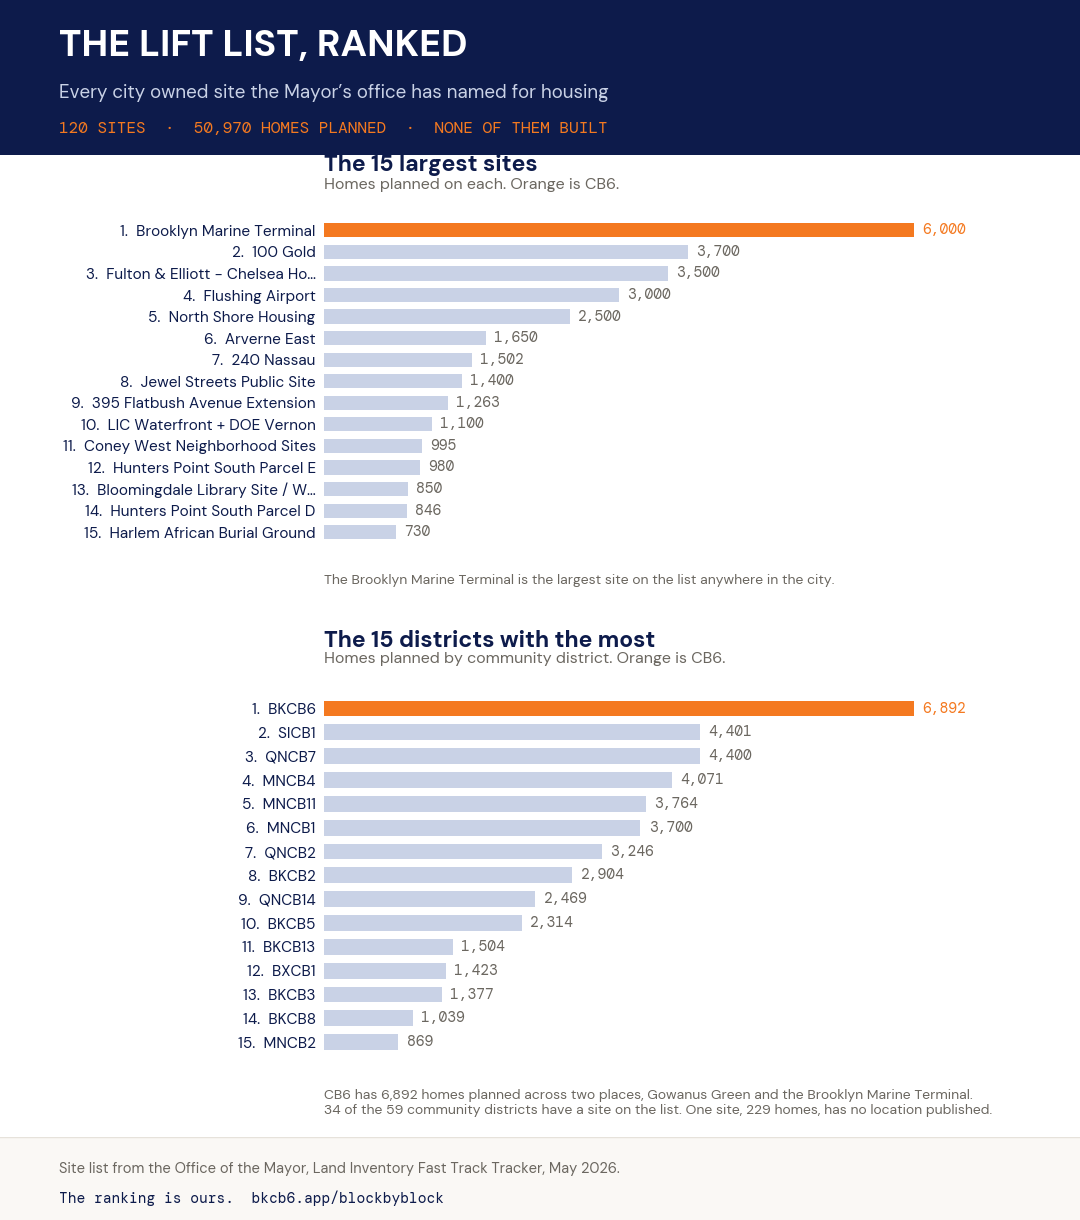
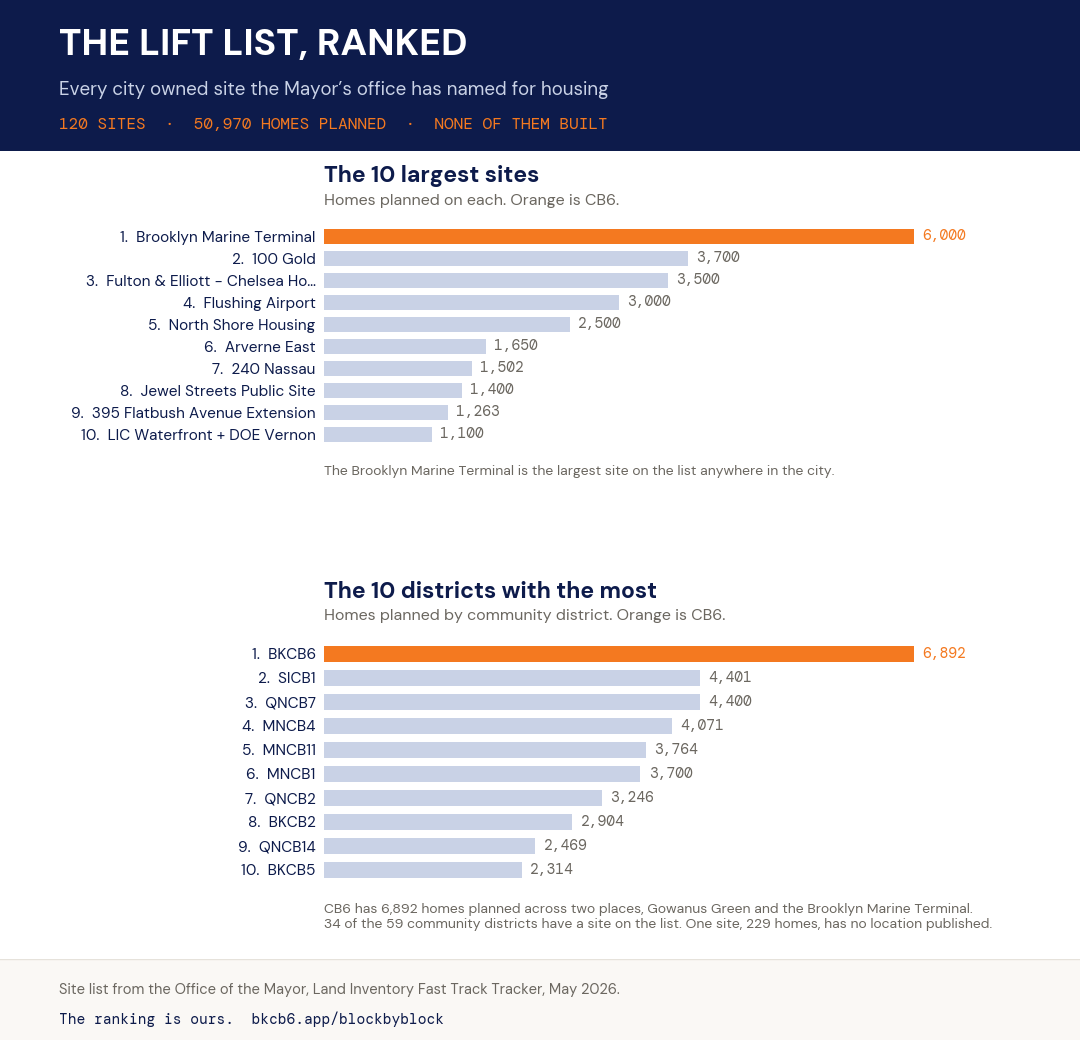
blockbyblock: interactive ranked chart with toggles for sites, boroughs, districts and agencies

Changed region(s): [[0.0, 0.0, 1.0, 0.9846], [0.7333, 0.4308, 0.7639, 0.4923]]

diff --git a/blockbyblock/index.html b/blockbyblock/index.html
@@ -45,8 +45,19 @@ h1 span{color:var(--orange)}
 .fold[open] summary::before{content:"\2212"}
 .fold .foldnote{padding:0 16px 12px;font-family:'DM Mono',monospace;font-size:.66rem;line-height:1.7;color:var(--muted)}
 .fold[open]{background:#fff}
-.chartfig{display:block;line-height:0;border-top:1px solid var(--border);border-bottom:1px solid var(--border)}
-.chartfig img{width:100%;height:auto;display:block}
+.bars{padding:2px 0 4px}
+.barrow{padding:9px 16px 11px;border-bottom:1px solid #f4f2ee}
+.barrow:last-child{border-bottom:none}
+.barrow.is-cb6{background:#fff8f2}
+.barhead{display:flex;align-items:baseline;gap:8px;margin-bottom:6px}
+.barrank{font-family:'DM Mono',monospace;font-size:.78rem;color:#9ca3af;min-width:20px}
+.barname{font-family:'DM Sans',sans-serif;font-size:.95rem;font-weight:800;color:var(--navy);flex:1;min-width:0;white-space:nowrap;overflow:hidden;text-overflow:ellipsis}
+.barval{font-family:'DM Mono',monospace;font-size:1rem;font-weight:800;color:var(--navy);white-space:nowrap}
+.barrow.is-cb6 .barname,.barrow.is-cb6 .barval{color:#b34700}
+.bartrack{height:20px;background:#eef0f4;border-radius:4px;overflow:hidden}
+.barfill{display:block;height:100%;background:var(--navy);border-radius:4px;transition:width .28s ease}
+.barrow.is-cb6 .barfill{background:var(--orange)}
+.barsub{margin-top:6px;font-family:'DM Mono',monospace;font-size:.63rem;line-height:1.5;color:var(--muted)}
 .chartget{padding:11px 16px 14px;font-family:'DM Mono',monospace;font-size:.66rem;text-transform:uppercase;letter-spacing:.08em;font-weight:700}
 .chartget a{color:var(--orange);text-decoration:none}
 .more{margin-top:2px}
@@ -366,12 +377,11 @@ table.dir td.nm{text-align:left;font-family:'DM Sans',sans-serif;font-weight:700
   <div id="rptSites"></div>
 
   <details class="fold" id="foldChart">
-    <summary>The ranking as one chart, to share</summary>
-    <div class="foldnote">The fifteen largest sites and the fifteen community districts with the most homes planned on them.</div>
-    <a class="chartfig" href="/lift-ranked.png" target="_blank" rel="noopener">
-      <img src="/lift-ranked.png" width="1080" height="1220" alt="The LIFT list, ranked. 120 sites, 50,970 homes planned, none of them built. The fifteen largest sites, led by the Brooklyn Marine Terminal in CB6 with 6,000 homes. The fifteen community districts with the most homes planned, led by BKCB6 with 6,892.">
-    </a>
-    <div class="chartget"><a href="/lift-ranked.png" download>Download the chart &rarr;</a></div>
+    <summary>The ranking as a chart</summary>
+    <div class="foldnote">Homes planned, none of them built. Switch between the biggest sites and the boroughs, districts and agencies they sit in.</div>
+    <div class="mapctl" id="chartCtl"></div>
+    <div id="chartBars"></div>
+    <div class="chartget"><a href="/lift-ranked.png" download>Download this as an image to share &rarr;</a></div>
   </details>
 
   <div class="sec">
@@ -871,6 +881,55 @@ table.dir td.nm{text-align:left;font-family:'DM Sans',sans-serif;font-weight:700
       drawTbl();
     });
     $('liftQ').addEventListener('input',drawTbl);
+
+    /* ---- the chart ---- */
+    var CHARTS=[['site','Top ten sites'],['boro','Boroughs'],['cd','Community districts'],
+      ['cc','Council districts'],['ag','Agencies']];
+    var chartView='site';
+    function chartRows(){
+      if(chartView==='site'){
+        return SITES.slice().sort(function(a,b){return (b.u||0)-(a.u||0);}).slice(0,10)
+          .map(function(s){
+            return {name:s.n, v:s.u||0, me:(s.cd==='BKCB6'),
+              sub:[s.nb, s.cd, s.ag].filter(Boolean).join(' \u00b7 ')};
+          });
+      }
+      var m={}, out=[];
+      SITES.forEach(function(s){
+        var k=s[chartView]; if(!k) return;
+        if(!m[k]){ m[k]={name:(chartView==='cc'?('Council '+k.replace('District ','')):k),v:0,sites:0,key:k}; out.push(m[k]); }
+        m[k].v+=(s.u||0); m[k].sites++;
+      });
+      out.sort(function(a,b){return b.v-a.v;});
+      if(chartView==='cd'||chartView==='cc') out=out.slice(0,10);
+      return out.map(function(r){
+        return {name:r.name, v:r.v, me:(r.key==='BKCB6'),
+          sub:n(r.sites)+(r.sites===1?' site':' sites')+' \u00b7 '+
+            (r.v/D.total_units*100).toFixed(1)+' percent of the list'};
+      });
+    }
+    function drawChart(){
+      var rows=chartRows(), max=rows.length?rows[0].v:0;
+      $('chartBars').innerHTML='<div class="bars">'+rows.map(function(r,i){
+        var w=Math.max(4,Math.round(r.v/max*100));
+        return '<div class="barrow'+(r.me?' is-cb6':'')+'">'+
+          '<div class="barhead"><span class="barrank">'+(i+1)+'</span>'+
+          '<span class="barname">'+esc(r.name)+'</span>'+
+          '<span class="barval">'+n(r.v)+'</span></div>'+
+          '<div class="bartrack"><span class="barfill" style="width:'+w+'%"></span></div>'+
+          '<div class="barsub">'+esc(r.sub)+'</div></div>';
+      }).join('')+'</div>';
+    }
+    $('chartCtl').innerHTML=CHARTS.map(function(x){
+      return '<button type="button" data-cv="'+x[0]+'"'+(x[0]===chartView?' class="on"':'')+'>'+x[1]+'</button>';
+    }).join('');
+    $('chartCtl').addEventListener('click',function(ev){
+      var b=ev.target.closest('[data-cv]'); if(!b) return;
+      chartView=b.getAttribute('data-cv');
+      $('chartCtl').querySelectorAll('[data-cv]').forEach(function(x){x.classList.toggle('on',x===b);});
+      drawChart();
+    });
+    drawChart();
 
     lMap=L.map('liftMap',{scrollWheelZoom:true}).setView([40.70,-73.94],10);
     L.tileLayer('https://{s}.basemaps.cartocdn.com/light_all/{z}/{x}/{y}{r}.png',{maxZoom:18,attribution:'&copy; CARTO'}).addTo(lMap);

diff --git a/sw.js b/sw.js
@@ -1,5 +1,5 @@
 // CB6 & Beyond — Service Worker
-const CACHE_VERSION = 'cb6-v677';
+const CACHE_VERSION = 'cb6-v678';
 const CORE_ASSETS = [
   '/',
   '/index.html',
